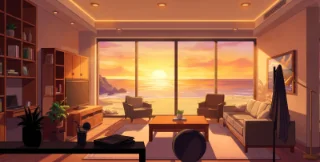
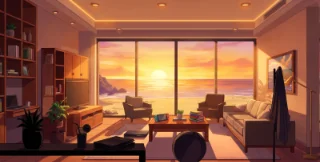
Add room items

diff --git a/src/config.ts b/src/config.ts
@@ -1,12 +1,19 @@
 import office01 from './assets/texture/office_01.webp';
 import office02 from './assets/texture/office_02.webp';
 import office03 from './assets/texture/office_03.webp';
+import officeBooks from './assets/image/office_books.webp';
+import officeComputer from './assets/image/office_computer.webp';
+import officePhone from './assets/image/office_phone.webp';
 import break01 from './assets/texture/break_01.webp';
 import break02 from './assets/texture/break_02.webp';
 import break03 from './assets/texture/break_03.webp';
+import breakBooks from './assets/image/break_books.webp';
+import breakConsole from './assets/image/break_console.webp';
+import breakDvd from './assets/image/break_dvd.webp';
 import meeting01 from './assets/texture/meeting_01.webp';
 import meeting02 from './assets/texture/meeting_02.webp';
 import meeting03 from './assets/texture/meeting_03.webp';
+import meetingRobot from './assets/image/meeting_robot.webp';
 import officeThumb from './assets/image/office_space.webp';
 import breakThumb from './assets/image/break_room.webp';
 import meetingThumb from './assets/image/meeting_room.webp';
@@ -19,14 +26,11 @@ export type Pointer = { x: number; y: number };
 export type Language = 'fr' | 'en';
 export const DEFAULT_LANGUAGE: Language = 'fr';
 
-// Caméra orbitale (ArcRotateCamera) — valeurs de départ, à ajuster par test visuel
 export const CAMERA_RADIUS = 10; // distance caméra-cible, verrouillée (pas de zoom)
 export const CAMERA_FOV = 0.5; // radians, FOV serré
 export const CAMERA_ALPHA_RANGE = 0.15; // amplitude max de rotation horizontale (radians)
 export const CAMERA_BETA_RANGE = 0.05; // amplitude max de rotation verticale (radians)
 
-// Largeur (unités monde) du plan le plus proche (z=0) — à ajuster par test visuel.
-// Les plans plus profonds sont mis à l'échelle pour continuer à couvrir le champ de vision.
 export const LAYER_BASE_WIDTH = 14;
 
 export type RoomName = 'OfficeSpace' | 'BreakRoom' | 'MeetingRoom';
@@ -40,17 +44,24 @@ export const ASSET_MANIFEST: Record<RoomName, AssetDef[]> = {
   OfficeSpace: [
     { name: 'office_01', url: office01 },
     { name: 'office_02', url: office02 },
-    { name: 'office_03', url: office03 }
+    { name: 'office_03', url: office03 },
+    { name: 'office_books', url: officeBooks },
+    { name: 'office_computer', url: officeComputer },
+    { name: 'office_phone', url: officePhone },
   ],
   BreakRoom: [
     { name: 'break_01', url: break01 },
     { name: 'break_02', url: break02 },
-    { name: 'break_03', url: break03 }
+    { name: 'break_03', url: break03 },
+    { name: 'break_dvd', url: breakDvd },
+    { name: 'break_books', url: breakBooks },
+    { name: 'break_console', url: breakConsole },
   ],
   MeetingRoom: [
     { name: 'meeting_01', url: meeting01 },
     { name: 'meeting_02', url: meeting02 },
     { name: 'meeting_03', url: meeting03 },
+    { name: 'meeting_robot', url: meetingRobot },
   ],
 };
 
@@ -58,4 +69,22 @@ export const ROOM_THUMBNAILS: Partial<Record<RoomName, string>> = {
   OfficeSpace: officeThumb,
   BreakRoom: breakThumb,
   MeetingRoom: meetingThumb,
+};
+
+export type ItemDef = { x: number; y: number; z: number; width: number };
+
+export const OFFICE_ITEMS: Record<string, ItemDef> = {
+  office_phone: { x: -2.45, y: -0.92, z: 4.85, width: 1.1 },
+  office_books: { x: -1.5, y: -0.89, z: 4.85, width: 1 },
+  office_computer: { x: 1.85, y: -0.85, z: 4.85, width: 1.4 },
+};
+
+export const BREAK_ITEMS: Record<string, ItemDef> = {
+  break_dvd: { x: -1.65, y: -3.35, z: 4.85, width: 1.2 },
+  break_books: { x: 2.45, y: -2.43, z: 4.85, width: 1 },
+  break_console: { x: 0.15, y: -2.465, z: 4.85, width: 1 },
+};
+
+export const MEETING_ITEMS: Record<string, ItemDef> = {
+  meeting_robot: { x: -0.025, y: -0.925, z: 4.85, width: 2 },
 };

diff --git a/src/components/babylon/scene/MeetingRoom.tsx b/src/components/babylon/scene/MeetingRoom.tsx
@@ -1,16 +1,21 @@
 import { Color3, Vector3, type Texture } from '@babylonjs/core';
 
 import Layer from '../Layer';
+import Item from '../Item';
+import { MEETING_ITEMS } from '../../../config';
 
 const LAYER_DEPTH = 5;
-const SUN_Z = 2 * LAYER_DEPTH - 1.2; // juste devant le 3ème plan (z=10)
+const SUN_Z = 2 * LAYER_DEPTH - 1.25;
 
 type MeetingRoomProps = {
   assets: Record<string, Texture>;
 };
 
 export default function MeetingRoom({ assets }: MeetingRoomProps) {
-  const names = Object.keys(assets).sort();
+  const layerNames = Object.keys(assets)
+    .filter((name) => !(name in MEETING_ITEMS))
+    .sort();
+  const itemNames = Object.keys(assets).filter((name) => name in MEETING_ITEMS);
 
   return (
     <>
@@ -18,11 +23,15 @@ export default function MeetingRoom({ assets }: MeetingRoomProps) {
         name="sun"
         position={new Vector3(2.8, 2, SUN_Z)}
         diffuse={new Color3(1, 0.95, 0.85)}
-        intensity={0.4}
+        intensity={0.6}
       />
-      {names.map((name, i) => (
+      {layerNames.map((name, i) => (
         <Layer key={name} name={name} texture={assets[name]} z={i * LAYER_DEPTH} lit />
       ))}
+      {itemNames.map((name) => {
+        const { x, y, z, width } = MEETING_ITEMS[name];
+        return <Item key={name} name={name} texture={assets[name]} x={x} y={y} z={z} width={width} />;
+      })}
     </>
   );
 }

diff --git a/src/components/babylon/scene/OfficeSpace.tsx b/src/components/babylon/scene/OfficeSpace.tsx
@@ -1,16 +1,21 @@
 import { Color3, Vector3, type Texture } from '@babylonjs/core';
 
 import Layer from '../Layer';
+import Item from '../Item';
+import { OFFICE_ITEMS } from '../../../config';
 
 const LAYER_DEPTH = 5;
-const SUN_Z = 2 * LAYER_DEPTH - 1.75; // juste devant le 3ème plan (z=10)
+const SUN_Z = 2 * LAYER_DEPTH - 1.5;
 
 type OfficeSpaceProps = {
   assets: Record<string, Texture>;
 };
 
 export default function OfficeSpace({ assets }: OfficeSpaceProps) {
-  const names = Object.keys(assets).sort();
+  const layerNames = Object.keys(assets)
+    .filter((name) => !(name in OFFICE_ITEMS))
+    .sort();
+  const itemNames = Object.keys(assets).filter((name) => name in OFFICE_ITEMS);
 
   return (
     <>
@@ -18,11 +23,15 @@ export default function OfficeSpace({ assets }: OfficeSpaceProps) {
         name="sun"
         position={new Vector3(1, 1.2, SUN_Z)}
         diffuse={new Color3(1, 0.95, 0.85)}
-        intensity={0.8}
+        intensity={0.7}
       />
-      {names.map((name, i) => (
+      {layerNames.map((name, i) => (
         <Layer key={name} name={name} texture={assets[name]} z={i * LAYER_DEPTH} lit />
       ))}
+      {itemNames.map((name) => {
+        const { x, y, z, width } = OFFICE_ITEMS[name];
+        return <Item key={name} name={name} texture={assets[name]} x={x} y={y} z={z} width={width} />;
+      })}
     </>
   );
 }

diff --git a/src/components/babylon/scene/BreakRoom.tsx b/src/components/babylon/scene/BreakRoom.tsx
@@ -1,16 +1,21 @@
 import { Color3, Vector3, type Texture } from '@babylonjs/core';
 
 import Layer from '../Layer';
+import Item from '../Item';
+import { BREAK_ITEMS } from '../../../config';
 
 const LAYER_DEPTH = 5;
-const SUN_Z = 2 * LAYER_DEPTH - 1.7; // juste devant le 3ème plan (z=10)
+const SUN_Z = 2 * LAYER_DEPTH - 1.7;
 
 type BreakRoomProps = {
   assets: Record<string, Texture>;
 };
 
 export default function BreakRoom({ assets }: BreakRoomProps) {
-  const names = Object.keys(assets).sort();
+  const layerNames = Object.keys(assets)
+    .filter((name) => !(name in BREAK_ITEMS))
+    .sort();
+  const itemNames = Object.keys(assets).filter((name) => name in BREAK_ITEMS);
 
   return (
     <>
@@ -20,9 +25,13 @@ export default function BreakRoom({ assets }: BreakRoomProps) {
         diffuse={new Color3(1, 0.95, 0.85)}
         intensity={0.8}
       />
-      {names.map((name, i) => (
+      {layerNames.map((name, i) => (
         <Layer key={name} name={name} texture={assets[name]} z={i * LAYER_DEPTH} lit />
       ))}
+      {itemNames.map((name) => {
+        const { x, y, z, width } = BREAK_ITEMS[name];
+        return <Item key={name} name={name} texture={assets[name]} x={x} y={y} z={z} width={width} />;
+      })}
     </>
   );
 }

diff --git a/src/components/main/overlay/RoomThumbnails.tsx b/src/components/main/overlay/RoomThumbnails.tsx
@@ -4,7 +4,7 @@ import { t } from '../../../lang.ts';
 import style from './RoomThumbnails.module.css';
 
 const HIDE_DELAY_MS = 2500;
-const REVEAL_ZONE_HEIGHT = 100; // px depuis le bas de l'écran
+const REVEAL_ZONE_HEIGHT = 100; // px depuis le haut de l'écran
 const REVEAL_ZONE_WIDTH_RATIO = 0.5; // bande centrale (50% de la largeur de l'écran)
 
 type RoomThumbnailsProps = {
@@ -36,11 +36,11 @@ export default function RoomThumbnails({ activeRoom, onSelect, language }: RoomT
 
   useEffect(() => {
     const handlePointerMove = (e: PointerEvent) => {
-      const nearBottom = e.clientY > window.innerHeight - REVEAL_ZONE_HEIGHT;
+      const nearTop = e.clientY < REVEAL_ZONE_HEIGHT;
       const centerMin = window.innerWidth * (0.5 - REVEAL_ZONE_WIDTH_RATIO / 2);
       const centerMax = window.innerWidth * (0.5 + REVEAL_ZONE_WIDTH_RATIO / 2);
       const nearCenter = e.clientX > centerMin && e.clientX < centerMax;
-      if (nearBottom && nearCenter) setVisible(true);
+      if (nearTop && nearCenter) setVisible(true);
     };
     window.addEventListener('pointermove', handlePointerMove);
     return () => window.removeEventListener('pointermove', handlePointerMove);

diff --git a/src/components/babylon/Item.tsx b/src/components/babylon/Item.tsx
@@ -1,0 +1,36 @@
+import { ActionManager, Color3, ExecuteCodeAction, Vector3, type Mesh, type Texture } from '@babylonjs/core';
+
+type ItemProps = {
+  name: string;
+  texture: Texture;
+  x: number;
+  y: number;
+  z: number;
+  width: number;
+};
+
+export default function Item({ name, texture, x, y, z, width }: ItemProps) {
+  const { width: texWidth, height: texHeight } = texture.getSize();
+  const height = width * (texHeight / texWidth);
+
+  return (
+    <plane
+      name={name}
+      width={width}
+      height={height}
+      position={new Vector3(x, y, z)}
+      onCreated={(mesh: Mesh) => {
+        mesh.actionManager = new ActionManager(mesh.getScene());
+        mesh.actionManager.registerAction(new ExecuteCodeAction(ActionManager.OnPointerOverTrigger, () => {}));
+      }}
+    >
+      <standardMaterial
+        name={`${name}-material`}
+        backFaceCulling={false}
+        disableLighting={false}
+        emissiveColor={new Color3(0, 0, 0)}
+        diffuseTexture={texture}
+      />
+    </plane>
+  );
+}

diff --git a/src/components/main/overlay/RoomThumbnails.module.css b/src/components/main/overlay/RoomThumbnails.module.css
@@ -2,7 +2,7 @@
   position: fixed;
   left: 0;
   right: 0;
-  bottom: 30px;
+  top: 30px;
   z-index: 50;
   display: flex;
   justify-content: center;
@@ -12,7 +12,7 @@
 }
 
 .hidden {
-  transform: translateY(calc(100% + 60px));
+  transform: translateY(calc(-100% - 60px));
 }
 
 .thumb,
@@ -59,7 +59,7 @@
 .label {
   position: absolute;
   left: 50%;
-  bottom: calc(100% + 8px);
+  top: calc(100% + 8px);
   transform: translateX(-50%);
   padding: 4px 8px;
   border-radius: 4px;
@@ -76,6 +76,7 @@
 .thumb:hover .label,
 .thumbActive:hover .label,
 .thumb:focus-visible .label,
-.thumbActive:focus-visible .label {
+.thumbActive:focus-visible .label,
+.thumbActive .label {
   opacity: 1;
 }

diff --git a/CLAUDE.md b/CLAUDE.md
@@ -32,15 +32,15 @@ Pourquoi :
 
 ### 1. Bureau (salle "pro")
 Éléments interactifs → ouvrent un modal avec infos professionnelles :
-- Bureau → CV + projets
-- Pile de livres → Compétences
+- Livres → CV + projets
+- PC portable → Compétences
 - Téléphone → Informations de contact
 
 ### 2. Salle de détente (salle "perso")
 Même schéma d'interaction, mais contenu plus personnel et ton plus léger :
 - Lecteur DVD → Réalisateurs appréciés
-- Pile de romans → Auteurs appréciés
-- Table basse → Centres d'intérêts
+- Romans → Auteurs appréciés
+- Consoles → Studios appréciés
 
 ### 3. Salle de réunion (salle "mixte")
 Chat connecté à une API LLM avec RAG sur les projets et compétences.
@@ -161,13 +161,13 @@ Chat connecté à une API LLM avec RAG sur les projets et compétences.
 - [ ] Éléments interactifs + gestion du state "élément sélectionné"
 - [ ] Config TS du contenu pro (projets, compétences, contact)
 - [ ] Câblage avec le composant `<Modal>` générique
-- [ ] Style de modal pro (écran ou agenda)
+- [ ] Style de modal pro (agenda pro)
 
 ### Salle Détente
 - [ ] Éléments interactifs + gestion du state "élément sélectionné"
 - [ ] Config TS du contenu perso (réalisateurs, auteurs, intérêts)
 - [ ] Câblage avec le composant `<Modal>` générique
-- [ ] Style de modal loisirs (affiches ou notes)
+- [ ] Style de modal loisirs (agenda perso)
 
 ### Salle Réunion (RAG + LLM)
 - [ ] Rédiger et structurer les documents sources (projets, commentaires, CV)
